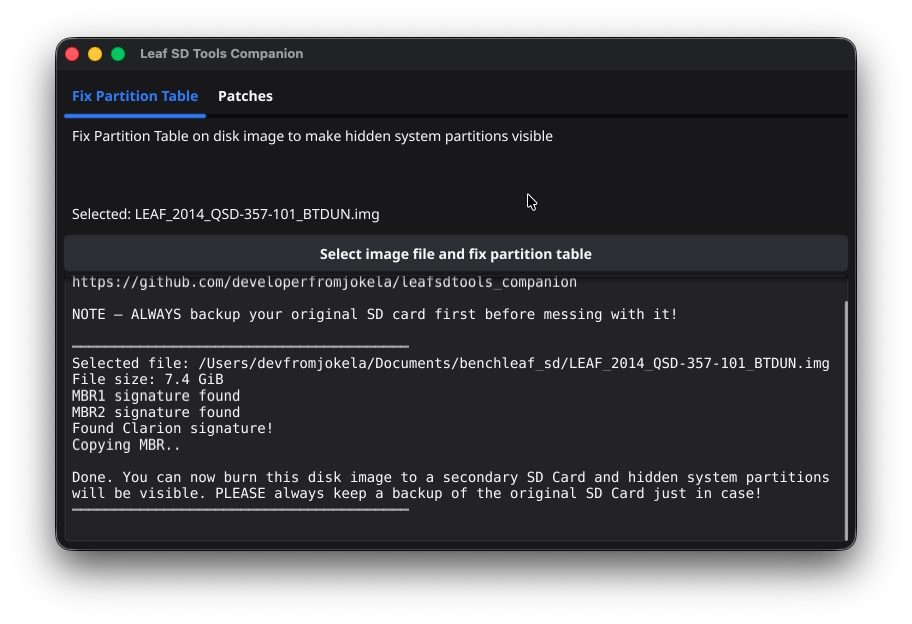
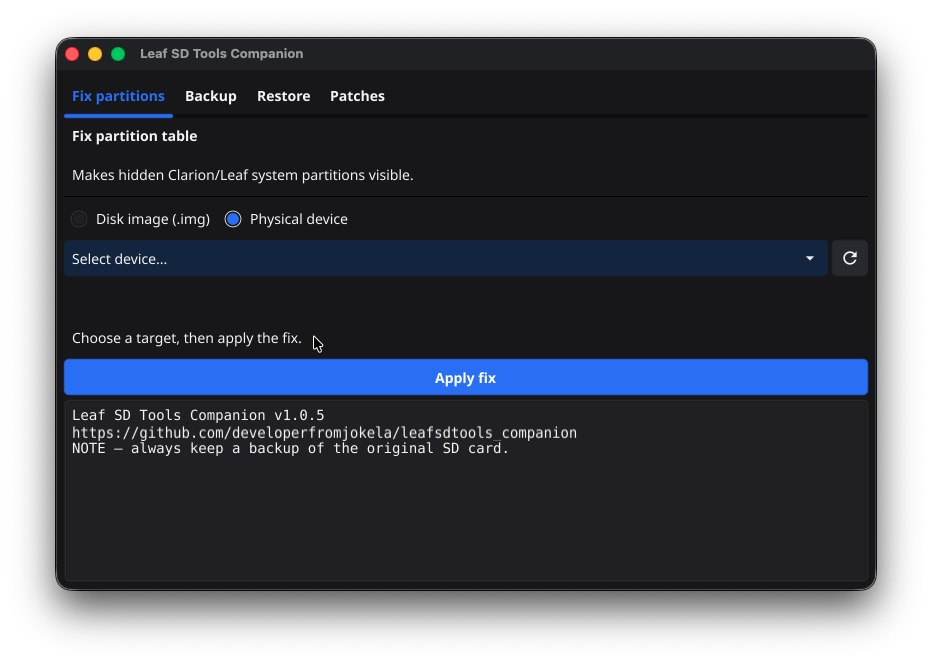
Enhance navi_guide2 and make slide PNG data more compatible

Changed region(s): [[0.0307, 0.0304, 0.9518, 0.883], [0.0614, 0.8526, 0.9211, 0.9135]]

diff --git a/ui/static/navi_guide2.html b/ui/static/navi_guide2.html
@@ -72,15 +72,17 @@
 <body>
 <h1>Guide: Bringing Your Navigator Back Online<br/>(AZE0&ZE1 30/40kWh, ONLY ONE SD SLOT)</h1>
 <p style="text-align: center"><span class="warning">NOTE: This guide is for navigation units with ONLY ONE SD SLOT! If you have two, please follow the guide <a href="/static/navi_guide.html">here</a></span> <br/> This detailed guide will walk you through the process of changing your navigator's APN settings. Follow each step carefully to ensure successful setup.</p>
+<iframe width="560" height="315" src="https://www.youtube.com/embed/0qPf6kGowmM" title="YouTube video player" frameborder="0" allow="accelerometer; autoplay; clipboard-write; encrypted-media; gyroscope; picture-in-picture; web-share" referrerpolicy="strict-origin-when-cross-origin" allowfullscreen></iframe>
+
 <div class="step">
-  <h2><span class="step-number">Step 1:</span> Make a clone of your SD Card</h2>
-  <p>You’ll need to make a clone of your navigation SD, so you will need new SD card that you will use in the navi. Keep the original safe in case something happens. Here’s how to proceed:</p>
+  <h2><span class="step-number">Step 1:</span> Make a backup or clone of your SD Card</h2>
+  <p>You’ll need to make a backup, additionally also a clone of your navigation SD, as a preventative maintenance, in case old SD fails. In case you decide to do a clone, you will need new SD card that you will use in the navi. The bare minimum, keep a backup of your original SD! Here’s how to proceed:</p>
   <ul>
-    <li><strong>0:</strong> Get yourself an SD card with same or larger capacity to fit the original SD card clone image.</li>
-    <li><strong>1:</strong> Use Win32 disk imager, HDD Raw Copy tool or other tool depending on your system to make a disk image of your original SD Card</li>
-    <li><strong>2:</strong> Before writing the disk image, we need to fix its partition table. Use <a href="https://github.com/developerfromjokela/leafsdtools_companion/releases/">LeafSDTools companion</a>.</li>
-    <li><strong>3:</strong> Select the disk image inside LeafSDTools companion and wait for the fix to be applied.</li>
-    <li><strong>4:</strong> Write fixed disk image to your new SD card and confirm it works with the navigation unit.</li>
+    <li><strong>0:</strong> Download <a href="https://github.com/developerfromjokela/leafsdtools_companion/releases/">LeafSDTools companion</a>.</li>
+    <li><strong>1:</strong> Use LeafSDTools Companion to make a backup of your original SD Card</li>
+    <li><strong>2:</strong> (If you are making a clone!) Restore backup to new SD card</li>
+    <li><strong>3:</strong> Select the SD Card inside LeafSDTools companion, under "Fix partition" tab hit Apply Fix and wait for the fix to be applied.</li>
+    <li><strong>4:</strong> After the fix, there should be more than one partition visible.</li>
     <img style="width: 100%; max-width: 800px" src="lst_companion.jpg">
   </ul>
 </div>

diff --git a/tculink/carwings_proto/autodj/opencarwings.py b/tculink/carwings_proto/autodj/opencarwings.py
@@ -6,6 +6,7 @@ import re
 from datetime import datetime
 from io import BytesIO
 
+import PIL.features
 from django.core.cache import cache
 
 logger = logging.getLogger("carwings_apj")
@@ -182,6 +183,11 @@ def get_infochannel(xml_data, returning_xml, channel_id, car, page):
 
 BUBBLE_TXT_COLOR = (222, 247, 148)
 
+def get_quantization_method():
+    method = Image.Quantize.FASTOCTREE
+    if PIL.features.check_feature("libimagequant"):
+        method = Image.Quantize.LIBIMAGEQUANT
+    return method
 
 def wrap_text(text, width, font):
     text_lines = []
@@ -311,9 +317,9 @@ def create_consumption_slide(title, consumption, bar_labels, bars=0, helptext=""
     main_frame.paste(indicator, (base_ind_pos, 0), indicator)
     frame_data = BytesIO()
     main_frame = main_frame.convert("RGB")
-    main_frame = main_frame.quantize(colors=128, dither=Image.Dither.FLOYDSTEINBERG, method=Image.Quantize.FASTOCTREE)
+    main_frame = main_frame.quantize(colors=256, dither=Image.Dither.FLOYDSTEINBERG, method=get_quantization_method())
     main_frame.save(frame_data, format="PNG",
-        optimize=True,
+        optimize=False,
         compress_level=9)
     return frame_data.getvalue()
 
@@ -376,9 +382,9 @@ def create_info_slide(title, info_title):
 
     frame_data = BytesIO()
     main_frame = main_frame.convert("RGB")
-    main_frame = main_frame.quantize(colors=128, dither=Image.Dither.FLOYDSTEINBERG, method=Image.Quantize.FASTOCTREE)
+    main_frame = main_frame.quantize(colors=256, dither=Image.Dither.FLOYDSTEINBERG, method=get_quantization_method())
     main_frame.save(frame_data, format="PNG",
-        optimize=True,
+        optimize=False,
         compress_level=9)
     return frame_data.getvalue()
 
@@ -473,7 +479,7 @@ def create_ecorecord_slide(title, total, total_count, trees, records):
     main_frame = main_frame.convert("RGB")
     main_frame = main_frame.quantize(colors=128, dither=Image.Dither.FLOYDSTEINBERG, method=Image.Quantize.MAXCOVERAGE)
     main_frame.save(frame_data, format="PNG",
-        optimize=True,
+        optimize=False,
         compress_level=9)
     return frame_data.getvalue()
 
@@ -551,7 +557,7 @@ def create_ecoforest_slide(title, total_title, total_value, emission_title, emis
     main_frame = main_frame.convert("RGB")
     main_frame = main_frame.quantize(colors=128, dither=Image.Dither.FLOYDSTEINBERG, method=Image.Quantize.MAXCOVERAGE)
     main_frame.save(frame_data, format="PNG",
-        optimize=True,
+        optimize=False,
         compress_level=9)
     return frame_data.getvalue()
 
